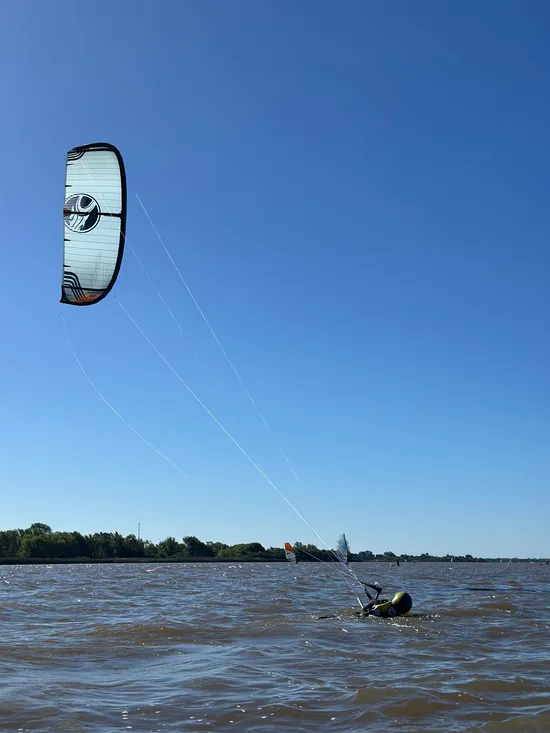
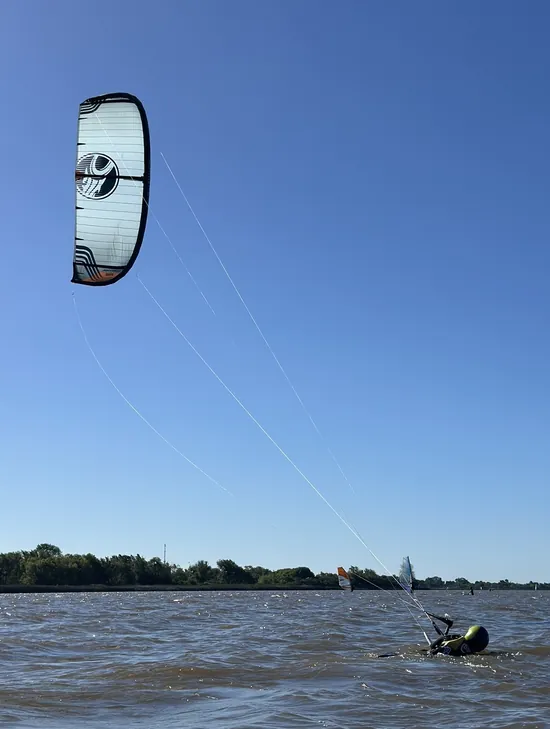
feat(kitesurf): regenerate Nivel 2 responsive WebP from updated user crop

diff --git a/kitesurf/index.html b/kitesurf/index.html
@@ -513,9 +513,9 @@
             <div class="level-panel" id="levelPanel2" role="region" aria-labelledby="levelBtn2" aria-hidden="true">
               <div class="level-panel-media">
                 <picture>
-                  <source media="(max-width: 768px)" srcset="../assets/nivel-2-mobile.webp?v=2" type="image/webp">
-                  <source srcset="../assets/nivel-2.webp?v=2" type="image/webp">
-                  <img src="../assets/nivel-2.webp?v=2" alt="Nivel 2: Body drag y waterstart en el agua" class="level-panel-img" loading="lazy" width="900" height="720">
+                  <source media="(max-width: 768px)" srcset="../assets/nivel-2-mobile.webp?v=3" type="image/webp">
+                  <source srcset="../assets/nivel-2.webp?v=3" type="image/webp">
+                  <img src="../assets/nivel-2.webp?v=3" alt="Nivel 2: Body drag y waterstart en el agua" class="level-panel-img" loading="lazy" width="900" height="720">
                 </picture>
                 <span class="level-media-badge">02</span>
                 <button type="button" class="level-close-btn" aria-label="Cerrar Nivel 02">
@@ -1841,6 +1841,6 @@
   <!-- Scripts Oficiales de la Home y de Deportes -->
   <script src="../main.js?v=2"></script>
   <script src="../sports.js?v=9.3"></script>
-  <!-- build v9.3.3-nivel2-mobile-bottom -->
+  <!-- build v9.3.4-nivel2-recrop -->
 </body>
 </html>
